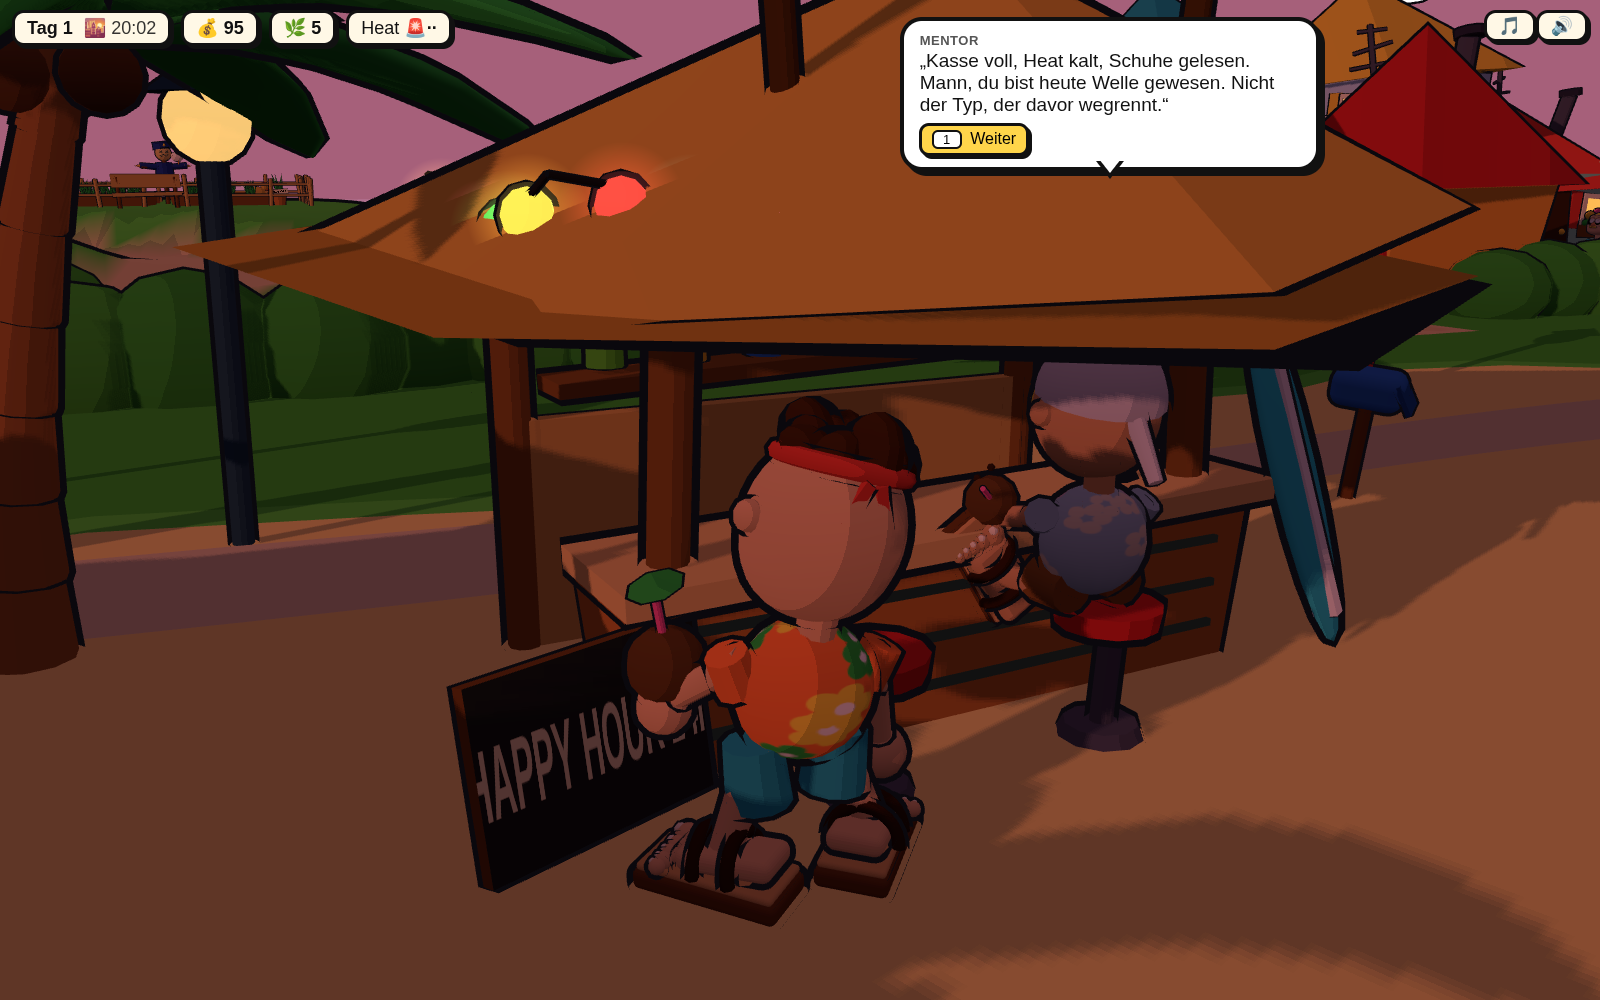
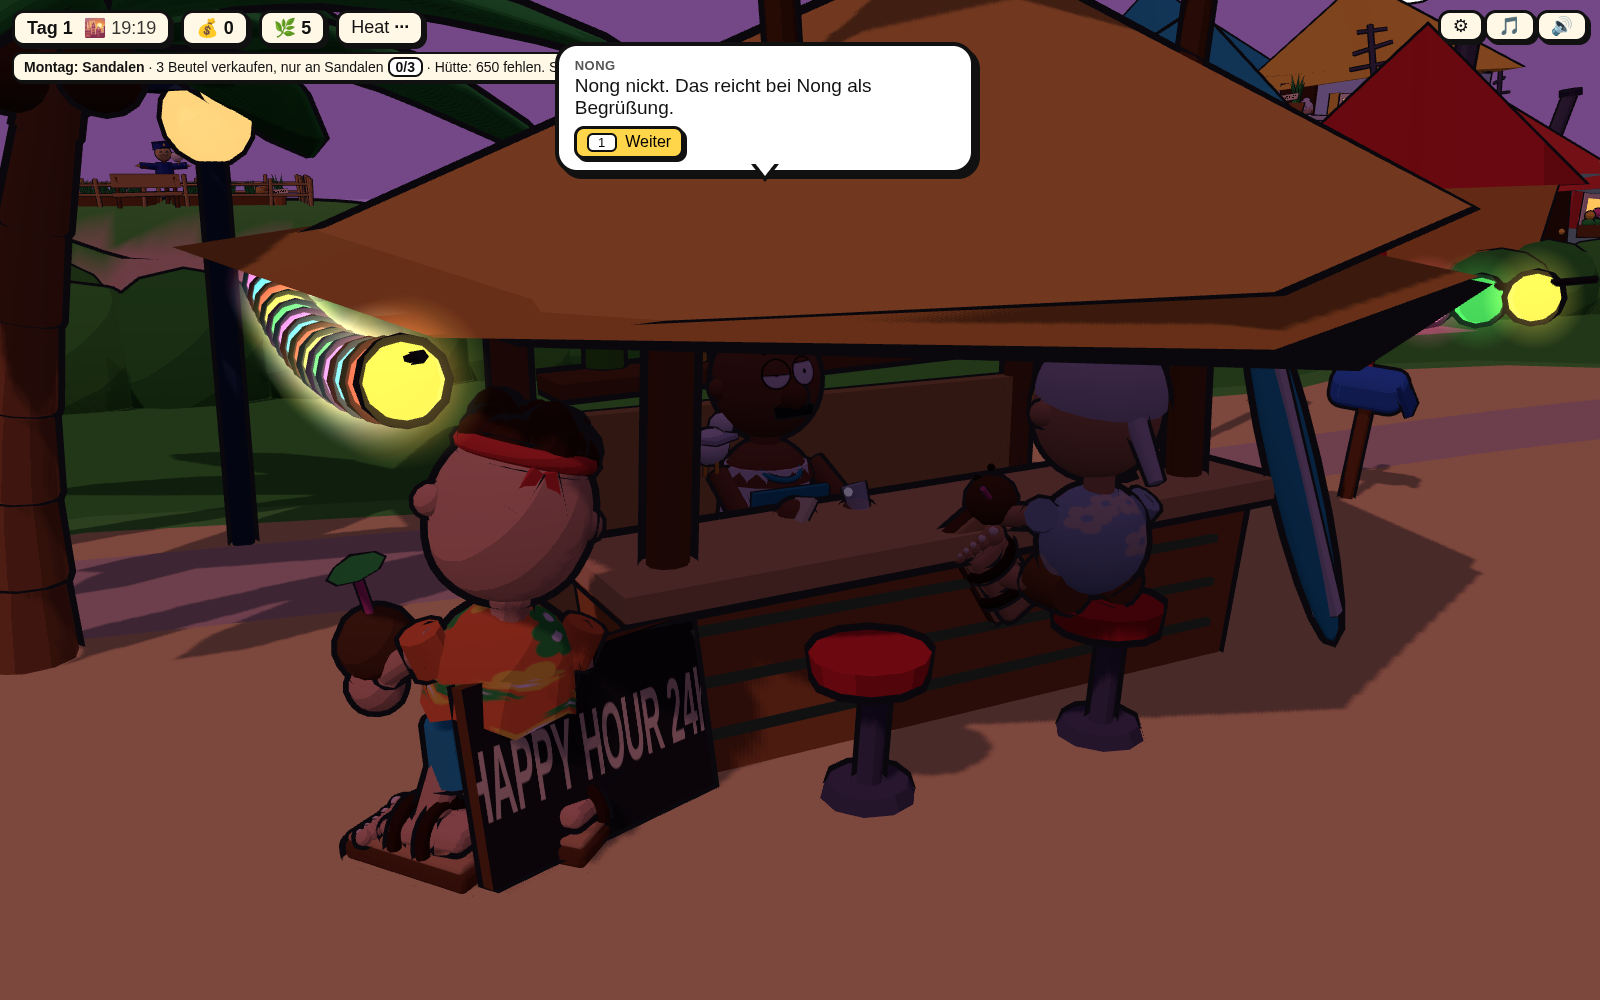
Kamera neigbar, Lichterkette unter der Traufe

diff --git a/spiel/js/main.js b/spiel/js/main.js
@@ -16,6 +16,7 @@ import { prepareGags, playGag, stopGag } from './gags.js';
 import {
   inputToDir, dirToTarget, stepPlayer, followCamera, waddlePose, CAM_OFFSET, DEFAULT_CAM_YAW, isOccluder, joystickInput, rotateDir,
   ANCHORS, assignAnchors, zoneMix, patrolStart, seesTarget, chaseStep, inHideout, CHASE_SPEED, PATROL_SPEED, WORLD, BUILDING_POS, STREIFE_P2_ROUTE,
+  CAM_PITCH, clampPitch,
 } from './logic.js';
 import {
   initialState, normalizeKatalog, pickKunden, startDialog, advanceDialog, chooseOption, isArrested, newDay, moodFor,
@@ -38,6 +39,8 @@ const KEY_TALK = 'KeyE';
 const KEY_LOOK = 'KeyF';
 const KEY_CAM_LEFT = 'KeyQ';
 const KEY_CAM_RIGHT = 'KeyR';
+const KEY_CAM_UP = 'KeyT';   // Kamera steiler (Draufsicht)
+const KEY_CAM_DOWN = 'KeyG'; // Kamera flacher (mehr Welt)
 
 // Parameter per Regex, weil der Screenshot-Aufruf „?snap=1“ hinter andere Parameter hängt (…?at=bar?snap=1)
 const q = (name) => (location.search.match(new RegExp('[?&]' + name + '=([-a-z0-9._]+)')) || [])[1];
@@ -47,6 +50,7 @@ const AT = q('at');
 const CY = q('cy'); // Kamera-Gierung in Grad relativ zum Standard, z. B. ?at=hotel&cy=-90 (Kamera im Osten, Blick nach Westen)
 const SCENE = q('scene'); // dialog | inspect | lineup | ausverkauft | bilanz | gag | mentor | mango | streife | abend (nur Snap)
 const T01 = q('t'); // Tageszeit 0..1 für Snaps
+const PITCH = q('pitch'); // Kamera-Neigung in Grad für Snaps
 const SCENE_ID = q('id'); // Kunde für scene=gag
 const TOUCH = q('touch') === '1' || isTouchDevice(); // Touch-Steuerung einblenden
 
@@ -168,6 +172,11 @@ let optionen = normalizeOptionen((() => { try { return JSON.parse(localStorage.g
 const LANG = q('lang'); // ?lang=en für Snaps
 if (LANG) optionen = { ...optionen, sprache: LANG === 'en' ? 'en' : 'de' };
 function saveOptionen() { try { localStorage.setItem(OPT_KEY, JSON.stringify(optionen)); } catch (e) { /* privat/gesperrt */ } }
+// Kamera-Neigung: aus den Optionen (Grad), ?pitch= für Snaps; Änderungen werden gesammelt gespeichert
+let camPitch = clampPitch((PITCH ? parseFloat(PITCH) : optionen.neigung) * Math.PI / 180);
+let pitchSaveAt = 0;
+function setPitch(p) { camPitch = clampPitch(p); pitchSaveAt = performance.now() + 800; }
+function flushPitch(now) { if (pitchSaveAt && now > pitchSaveAt) { pitchSaveAt = 0; const g = Math.round(camPitch * 180 / Math.PI); if (g !== optionen.neigung) { optionen = { ...optionen, neigung: g }; saveOptionen(); } } }
 // Spielstand: automatisch beim Tageswechsel (Morgenstand), Startkarte „Weiter“/„Neues Spiel“ wenn einer da ist
 const SAVE_KEY = 'bangi.spielstand';
 function saveGame() { try { localStorage.setItem(SAVE_KEY, JSON.stringify({ ...toSave(game), zeit: new Date().toISOString() })); } catch (e) { /* privat/gesperrt */ } }
@@ -382,10 +391,10 @@ async function loadKunden() {
 }
 
 // ---------- Eingabe ----------
-const keys = { up: false, down: false, left: false, right: false, run: false, rotL: false, rotR: false };
+const keys = { up: false, down: false, left: false, right: false, run: false, rotL: false, rotR: false, pitchUp: false, pitchDown: false };
 const KEYMAP = {
   KeyW: 'up', ArrowUp: 'up', KeyS: 'down', ArrowDown: 'down', KeyA: 'left', ArrowLeft: 'left',
-  KeyD: 'right', ArrowRight: 'right', ShiftLeft: 'run', ShiftRight: 'run', [KEY_CAM_LEFT]: 'rotL', [KEY_CAM_RIGHT]: 'rotR',
+  KeyD: 'right', ArrowRight: 'right', ShiftLeft: 'run', ShiftRight: 'run', [KEY_CAM_LEFT]: 'rotL', [KEY_CAM_RIGHT]: 'rotR', [KEY_CAM_UP]: 'pitchUp', [KEY_CAM_DOWN]: 'pitchDown',
 };
 let nearK = null; // nächster Kunde in Reichweite (jeden Frame neu)
 // Mentor auf der Kuppe: eigener Gesprächspartner (kein Kunde), Szene einmal pro Tag
@@ -650,13 +659,39 @@ window.addEventListener('blur', () => { for (const k in keys) keys[k] = false; }
 // Klick auf den Boden = hinlaufen
 const ray = new THREE.Raycaster(); ray.camera = camera; // Sprites (Lichterketten-Halos) brauchen die Kamera beim Raycast
 const groundPlane = new THREE.Plane(new THREE.Vector3(0, 1, 0), 0);
+// Maus: Ziehen dreht (waagerecht) und neigt (senkrecht) die Kamera, ein Klick ohne Ziehen läuft hin; Rad neigt; zwei Finger neigen
+const drag = { id: null, x: 0, y: 0, moved: false, fingers: new Map(), pinchY: null };
 renderer.domElement.addEventListener('pointerdown', (e) => {
-  if (e.button !== 0 || mode !== 'free') return;
+  if (e.pointerType === 'touch') { drag.fingers.set(e.pointerId, e.clientY); drag.pinchY = drag.fingers.size === 2 ? [...drag.fingers.values()].reduce((a, b) => a + b, 0) / 2 : null; }
+  if (e.button !== 0 || mode !== 'free' || e.pointerType === 'touch') return;
+  drag.id = e.pointerId; drag.x = e.clientX; drag.y = e.clientY; drag.moved = false;
+});
+renderer.domElement.addEventListener('pointermove', (e) => {
+  if (e.pointerType === 'touch') {
+    if (drag.fingers.has(e.pointerId)) drag.fingers.set(e.pointerId, e.clientY);
+    if (drag.fingers.size === 2 && drag.pinchY !== null) { const y = [...drag.fingers.values()].reduce((a, b) => a + b, 0) / 2; setPitch(camPitch - (y - drag.pinchY) * 0.004); drag.pinchY = y; }
+    return;
+  }
+  if (drag.id !== e.pointerId) return;
+  const dx = e.clientX - drag.x, dy = e.clientY - drag.y;
+  if (!drag.moved && Math.hypot(dx, dy) < 6) return;
+  drag.moved = true;
+  camYaw -= dx * 0.005; setPitch(camPitch - dy * 0.005); // hochziehen = steiler
+  drag.x = e.clientX; drag.y = e.clientY;
+});
+const dragEnd = (e) => {
+  if (e.pointerType === 'touch') { drag.fingers.delete(e.pointerId); drag.pinchY = null; return; }
+  if (drag.id !== e.pointerId) return;
+  drag.id = null;
+  if (drag.moved || mode !== 'free') return;
   const ndc = new THREE.Vector2((e.clientX / window.innerWidth) * 2 - 1, -(e.clientY / window.innerHeight) * 2 + 1);
   ray.setFromCamera(ndc, camera);
   const hit = new THREE.Vector3();
   if (ray.ray.intersectPlane(groundPlane, hit)) clickTarget = { x: hit.x, z: hit.z };
-});
+};
+renderer.domElement.addEventListener('pointerup', dragEnd);
+renderer.domElement.addEventListener('pointercancel', dragEnd);
+renderer.domElement.addEventListener('wheel', (e) => { if (mode === 'free' || mode === 'inspect') { setPitch(camPitch + e.deltaY * 0.0015); e.preventDefault(); } }, { passive: false });
 // ---------- Tutorial Tag 1: Schritte aus texte.json → tutorial{}, Zielmarker (marker.js), nur im ersten Spiel, überspringbar ----------
 const TUT_KEY = 'bangi.tutorial';
 const TUT_PARAM = q('tutorial'); // ?tutorial=1 erzwingt, =0 unterdrückt (Snaps/Tests)
@@ -1378,7 +1413,7 @@ function setupScene() {
     // Einzelfigur auf offenem Sand, Blick zur Kamera: ?scene=figur&id=surfer_1[&cy=50]
     const k = (SCENE_ID && kundeById(SCENE_ID)) || kunden[0];
     state = { ...state, x: 7, z: 4, yaw: -Math.PI / 2, speed: 0 };
-    let c = cam; for (let i = 0; i < 300; i++) c = followCamera(c, state, 1 / 60, camYaw);
+    let c = cam; for (let i = 0; i < 300; i++) c = followCamera(c, state, 1 / 60, camYaw, 4, camPitch);
     k.npc = { ...k.npc, x: 4, z: 6, yaw: Math.atan2(c.x - 4, c.z - 6), moving: false, pause: 99 };
     k.look = 0; applyKunde(k);
     mode = 'free';
@@ -1423,7 +1458,7 @@ if (SNAP) {
     const overview = AT === 'overview';
     setupScene();
     applyPose(state);
-    for (let i = 0; i < 300; i++) cam = followCamera(cam, state, 1 / 60, camYaw);
+    for (let i = 0; i < 300; i++) cam = followCamera(cam, state, 1 / 60, camYaw, 4, camPitch);
     if (overview) { cam = { x: 12, y: 135, z: -160, tx: 12, ty: 0, tz: -22 }; scene.fog = null; camera.near = 20; camera.updateProjectionMatrix(); } // Übersicht ohne Nebel; near 20 gegen Tiefen-Streifen (Gras über Sand) in der Ferne
     if (mode === 'inspect') {
       cam = inspectCamera(talking.npc, state, inspectOpts(talking));
@@ -1477,6 +1512,8 @@ if (SNAP) {
     if (free) {
       if (keys.rotL) camYaw += 1.5 * dt;
       if (keys.rotR) camYaw -= 1.5 * dt;
+      if (keys.pitchUp) setPitch(camPitch + 1.0 * dt);
+      if (keys.pitchDown) setPitch(camPitch - 1.0 * dt);
       let dir = inputToDir(keys, camYaw);
       let run = keys.run;
       if (joy && joy.active) { dir = rotateDir(joy, camYaw); run = joy.run; }
@@ -1507,6 +1544,7 @@ if (SNAP) {
     }
     if (nearK) tutorialFire('kunde_in_reichweite');
     if (hinweisBis && now > hinweisBis) { hinweisBis = 0; if (mode === 'free') ui.showPrompt(null); }
+    flushPitch(now);
     try { ereignisSteuer.update(now / 1000); } catch (e) { /* ohne Requisiten */ }
     for (const k of kunden) updateKundenExtras(k.group, now / 1000);
     updateTutorial(now);
@@ -1539,7 +1577,7 @@ if (SNAP) {
       const t = 1 - Math.exp(-5 * dt);
       for (const key of ['x', 'y', 'z', 'tx', 'ty', 'tz']) cam[key] += (want[key] - cam[key]) * t;
     } else {
-      cam = followCamera(cam, state, dt, camYaw);
+      cam = followCamera(cam, state, dt, camYaw, 4, camPitch);
     }
     applyCamera();
     camera.updateMatrixWorld();

diff --git a/spiel/test/logic.test.js b/spiel/test/logic.test.js
@@ -3,7 +3,7 @@ import { test } from 'node:test';
 import assert from 'node:assert/strict';
 import {
   inputToDir, dirToTarget, stepPlayer, resolveCollisions, pushOutCircle, pushOutRect,
-  followCamera, waddlePose, npcHeadYaw, shoreZ, angleLerp,
+  followCamera, waddlePose, npcHeadYaw, shoreZ, angleLerp, CAM_PITCH, CAM_DIST, clampPitch, camOffsetFor,
   WALK_SPEED, RUN_SPEED, PLAYER_RADIUS, WADE_DEPTH, WORLD, CAM_OFFSET, DEFAULT_CAM_YAW,
 } from '../js/logic.js';
 
@@ -134,16 +134,17 @@ test('followCamera: konvergiert auf Offset hinter/über dem Spieler, schaut aufs
   let cam = { x: 0, y: 0, z: 0, tx: 0, ty: 0, tz: 0 };
   const p = { x: 10, z: 5 };
   for (let i = 0; i < 600; i++) cam = followCamera(cam, p, 1 / 60);
-  close(cam.x, 10, 1e-3); close(cam.z, 5 + CAM_OFFSET.back, 1e-3); close(cam.y, CAM_OFFSET.up, 1e-3);
+  const off = camOffsetFor(CAM_PITCH.standard); // Standard-Neigung
+  close(cam.x, 10, 1e-3); close(cam.z, 5 + off.back, 1e-3); close(cam.y, off.up, 1e-3);
   close(cam.tx, 10, 1e-3); close(cam.tz, 5 - CAM_OFFSET.lookAhead, 1e-3);
   // mit Kamera-Gierung 90°: Kamera steht seitlich
   let c2 = { ...cam };
   for (let i = 0; i < 600; i++) c2 = followCamera(c2, p, 1 / 60, Math.PI / 2);
-  close(c2.x, 10 + CAM_OFFSET.back, 1e-3); close(c2.z, 5, 1e-3);
+  close(c2.x, 10 + off.back, 1e-3); close(c2.z, 5, 1e-3);
   // Standard-Gierung: Kamera im Norden (-z), schaut nach Süden aufs Meer; „hoch“ läuft Richtung Meer
   let c3 = { ...cam };
   for (let i = 0; i < 600; i++) c3 = followCamera(c3, p, 1 / 60, DEFAULT_CAM_YAW);
-  close(c3.z, 5 - CAM_OFFSET.back, 1e-3); close(c3.tz, 5 + CAM_OFFSET.lookAhead, 1e-3);
+  close(c3.z, 5 - off.back, 1e-3); close(c3.tz, 5 + CAM_OFFSET.lookAhead, 1e-3);
   const up = inputToDir({ up: true }, DEFAULT_CAM_YAW);
   close(up.x, 0, 1e-9); close(up.z, 1, 1e-9);
 });
@@ -589,4 +590,24 @@ test('Spawn-Zonen: K7 landet im Reisfeld, K8 im Kokoshain (hain_*), K1 im Hafen;
   const m = aA([{ id: 'nok', spawn: 'K7' }, { id: 'dao', spawn: 'K8' }, { id: 'f', spawn: 'K1' }, { id: 'x' }], ALLE, { day: 3 });
   assert.equal(m.nok.zone, 'reisfeld'); assert.ok(m.dao.id.startsWith('hain_')); assert.equal(m.f.zone, 'pier'); assert.ok(!m.f.id.startsWith('hain_'), 'Fähre nicht in den Hain');
   assert.ok(m.x);
+});
+
+
+test('Kamera-Neigung: Grenzen 15°…80°, Standard 38° (flacher als vorher), Abstand bleibt, followCamera folgt der Neigung', () => {
+  const g = (d) => d * Math.PI / 180;
+  assert.ok(Math.abs(clampPitch(g(5)) - CAM_PITCH.min) < 1e-9 && Math.abs(clampPitch(g(89)) - CAM_PITCH.max) < 1e-9);
+  assert.equal(clampPitch(NaN), CAM_PITCH.standard); assert.equal(clampPitch(undefined), CAM_PITCH.standard);
+  assert.ok(CAM_PITCH.standard < Math.atan2(CAM_OFFSET.up - CAM_OFFSET.targetY, CAM_OFFSET.back), 'Standard flacher als der alte Versatz');
+  for (const p of [CAM_PITCH.min, CAM_PITCH.standard, CAM_PITCH.max]) {
+    const o = camOffsetFor(p);
+    assert.ok(Math.abs(Math.hypot(o.back, o.up - CAM_OFFSET.targetY) - CAM_DIST) < 1e-9, 'Abstand konstant');
+    assert.ok(o.up > 1.5, 'nie unter den Boden');
+  }
+  assert.ok(camOffsetFor(CAM_PITCH.min).back > camOffsetFor(CAM_PITCH.max).back && camOffsetFor(CAM_PITCH.max).up > camOffsetFor(CAM_PITCH.min).up);
+  assert.ok(camOffsetFor(CAM_PITCH.max).back > 2.5, 'nicht senkrecht von oben');
+  const p = { x: 10, z: 20 };
+  let flach = { x: 0, y: 0, z: 0, tx: 0, ty: 0, tz: 0 }, steil = { ...flach };
+  for (let i = 0; i < 600; i++) { flach = followCamera(flach, p, 1 / 60, 0, 4, CAM_PITCH.min); steil = followCamera(steil, p, 1 / 60, 0, 4, CAM_PITCH.max); }
+  assert.ok(flach.y < steil.y && Math.abs(flach.z - p.z) > Math.abs(steil.z - p.z), 'flach: tiefer und weiter hinten');
+  assert.ok(Math.abs(flach.tx - (p.x)) < 1e-6 && Math.abs(flach.ty - CAM_OFFSET.targetY) < 1e-6, 'Blickpunkt unverändert');
 });

diff --git a/spiel/js/logic.js b/spiel/js/logic.js
@@ -146,11 +146,21 @@ export function stepPlayer(state, input, dt, colliders = [], world = WORLD, { sa
  * sanft nachgezogen (exponentiell). cam: { x, y, z, tx, ty, tz }
  */
 export const CAM_OFFSET = { back: 13, up: 13, lookAhead: 3.0, targetY: 1.0 };
+// Kamera-Neigung (Pitch, Radiant): flach = mehr Welt, steil = Draufsicht. Grenzen: nicht unter den Boden, nicht senkrecht
+export const CAM_DIST = Math.hypot(CAM_OFFSET.back, CAM_OFFSET.up - CAM_OFFSET.targetY); // Abstand Kamera ↔ Blickpunkt bleibt
+export const CAM_PITCH = { min: 15 * Math.PI / 180, max: 80 * Math.PI / 180, standard: 38 * Math.PI / 180 }; // Standard flacher als die alten 42,7°
+export const clampPitch = (p) => Math.max(CAM_PITCH.min, Math.min(CAM_PITCH.max, Number.isFinite(p) ? p : CAM_PITCH.standard));
+/** Kamera-Versatz für eine Neigung: zurück (waagerecht) und hoch (über dem Blickpunkt), Abstand konstant */
+export function camOffsetFor(pitch = CAM_PITCH.standard, dist = CAM_DIST) {
+  const p = clampPitch(pitch);
+  return { back: dist * Math.cos(p), up: CAM_OFFSET.targetY + dist * Math.sin(p) };
+}
 export const DEFAULT_CAM_YAW = Math.PI; // Kamera steht im Norden und schaut übers Land aufs Meer (Q/E dreht)
-export function followCamera(cam, player, dt, camYaw = 0, k = 4) {
+export function followCamera(cam, player, dt, camYaw = 0, k = 4, pitch = CAM_PITCH.standard) {
   const c = Math.cos(camYaw), s = Math.sin(camYaw);
-  const ox = s * CAM_OFFSET.back, oz = c * CAM_OFFSET.back;
-  const want = { x: player.x + ox, y: CAM_OFFSET.up, z: player.z + oz };
+  const off = camOffsetFor(pitch);
+  const ox = s * off.back, oz = c * off.back;
+  const want = { x: player.x + ox, y: off.up, z: player.z + oz };
   const wantT = { x: player.x - s * CAM_OFFSET.lookAhead, y: CAM_OFFSET.targetY, z: player.z - c * CAM_OFFSET.lookAhead };
   const t = 1 - Math.exp(-k * dt);
   const lerp = (a, b) => a + (b - a) * t;

diff --git a/spiel/js/game.js b/spiel/js/game.js
@@ -641,7 +641,8 @@ export function fromSave(json) {
 export const hatFortschritt = (json) => { const s = fromSave(json); return !!s && (s.tag > 1 || s.geld > 0 || s.mangos > 0); };
 
 // ---------- Optionen (⚙): Textsprache, Zivi-Beschlagnahme, Musik, Ton — Ablage im Browser, robust gegen Müll ----------
-export const DEFAULT_OPTIONEN = { sprache: 'de', beschlagnahme: ZIVI_BESCHLAGNAHMT, musik: true, ton: true };
+export const NEIGUNG = { min: 15, max: 80, standard: 38 }; // Kamera-Neigung in Grad (Grenzen wie logic.CAM_PITCH)
+export const DEFAULT_OPTIONEN = { sprache: 'de', beschlagnahme: ZIVI_BESCHLAGNAHMT, musik: true, ton: true, neigung: NEIGUNG.standard };
 export function normalizeOptionen(json) {
   const o = json && typeof json === 'object' ? json : {};
   const bool = (v, d) => (typeof v === 'boolean' ? v : d);
@@ -650,6 +651,7 @@ export function normalizeOptionen(json) {
     beschlagnahme: bool(o.beschlagnahme, DEFAULT_OPTIONEN.beschlagnahme),
     musik: bool(o.musik, DEFAULT_OPTIONEN.musik),
     ton: bool(o.ton, DEFAULT_OPTIONEN.ton),
+    neigung: Number.isFinite(o.neigung) ? Math.max(NEIGUNG.min, Math.min(NEIGUNG.max, Math.round(o.neigung))) : DEFAULT_OPTIONEN.neigung,
   };
 }
 // Reveal-Gags (gags.js spielt sie): id, wann (kauf|ablehnung|immer), gag, mood, extra, dauer_s — kaputte Einträge fliegen raus

diff --git a/spiel/js/world.js b/spiel/js/world.js
@@ -179,7 +179,9 @@ export function buildWorld() {
   // Lichterkette rundherum an der Dachkante (abends glühen die Birnchen, siehe licht.js); dreht mit der Bar mit
   { const c = Math.cos(bar.rotation.y), sn = Math.sin(bar.rotation.y);
     const V = (lx, ly, lz) => new THREE.Vector3(barPos.x + (lx * c + lz * sn) * bs, ly * bs, barPos.z + (-lx * sn + lz * c) * bs);
-    g.add(lichterkette([V(-2.5, 3.2, -1.3), V(-2.5, 3.2, 1.3), V(2.5, 3.2, 1.3), V(2.5, 3.2, -1.3), V(-2.5, 3.2, -1.3)])); }
+    // unter der Traufe (Dachsaum endet bei y 2.75, Radius ≈ 4.1 × 3.4): knapp darunter, nicht im Dach. Drei Seiten (Rückwand + Flanken),
+    // die Tresenseite bleibt frei: von der Meerseite (Bar-Kamera) hingen die Birnen sonst vor den Gesichtern
+    g.add(lichterkette([V(-3.4, 2.6, 2.7), V(-3.4, 2.6, -2.7), V(3.4, 2.6, -2.7), V(3.4, 2.6, 2.7)])); }
   for (const f of buildingFootprints()) if (f.name === 'bar') rect(f.x, f.z, f.w, f.d); // Theke + Rückwand
   bCircle(barPos, bs, -2.1, -1.1, 0.25); bCircle(barPos, bs, 2.1, -1.1, 0.25); bCircle(barPos, bs, -1.9, 1.0, 0.25); bCircle(barPos, bs, 2.1, 1.0, 0.25);
   bCircle(barPos, bs, -1.1, 1.9, 0.4); bCircle(barPos, bs, 0.5, 1.9, 0.4); // Hocker

diff --git a/spiel/test/game.test.js b/spiel/test/game.test.js
@@ -686,7 +686,8 @@ test('normalizeOptionen: Defaults (DE, Beschlagnahme an, Musik/Ton an), nur gül
   assert.deepEqual(normalizeOptionen(null), DEFAULT_OPTIONEN);
   assert.equal(DEFAULT_OPTIONEN.beschlagnahme, ZB);
   const o = normalizeOptionen({ sprache: 'en', beschlagnahme: false, musik: 'nein', ton: 0, extra: 1 });
-  assert.deepEqual(o, { sprache: 'en', beschlagnahme: false, musik: true, ton: true });
+  assert.deepEqual(o, { sprache: 'en', beschlagnahme: false, musik: true, ton: true, neigung: 38 });
+  assert.equal(normalizeOptionen({ neigung: 200 }).neigung, 80); assert.equal(normalizeOptionen({ neigung: 2 }).neigung, 15); assert.equal(normalizeOptionen({ neigung: 50.4 }).neigung, 50);
   assert.equal(normalizeOptionen({ sprache: 'fr' }).sprache, 'de');
 });
 

diff --git a/spiel/index.html b/spiel/index.html
@@ -101,7 +101,7 @@
 </script>
 </head>
 <body>
-<div id="hint">WASD / Pfeile = gehen · Shift = „rennen“ · Q/R = Kamera drehen · Klick = hinlaufen · E = ansprechen · F = genau hinschauen</div>
+<div id="hint">WASD / Pfeile = gehen · Shift = „rennen“ · Q/R = Kamera drehen · T/G, Rad oder Ziehen = Kamera neigen · Klick = hinlaufen · E = ansprechen · F = genau hinschauen</div>
 <div id="hud" class="comic"></div>
 <div id="ziel" class="comic"></div>
 <button id="mute" class="hud-item comic" aria-label="Ton an/aus" style="position:fixed;right:12px;top:10px;display:none">🔊</button>

diff --git a/spiel/README.md b/spiel/README.md
@@ -209,6 +209,14 @@ Standbild (für die PNGs in `shots/`).
   Meshes zusammengeführt — mit `?stats=1` lässt sich der Draw-Call-Stand ablesen, das ist der erste Hebel, wenn
   es auf einem Laptop ruckelt. Pixel-Ratio ist auf 1.5 gedeckelt.
 
+## Kamera-Neigung
+Die Kamera lässt sich hoch- und runterneigen: **T/G**, **Mausrad**, **Maus-Ziehen** (senkrecht neigt, waagerecht dreht
+wie Q/R; ein Klick ohne Ziehen läuft weiter hin) und mobil **Zwei-Finger-Wisch**. Grenzen 15°…80° (nicht unter den
+Boden, nicht senkrecht), Standard 38° – etwas flacher als früher, man sieht mehr Welt. Der Abstand zum Blickpunkt bleibt
+gleich (`CAM_PITCH`, `clampPitch`, `camOffsetFor`, `followCamera` in `js/logic.js`, getestet). Die Neigung wird als
+Option `neigung` (Grad) gespeichert; `?pitch=15` bzw. `?pitch=80` setzt sie für Snaps. Hinschau- und Bar-Kamera sind
+davon unabhängig, der Sicht-Fade arbeitet mit der echten Kameraposition.
+
 ## Optionen (⚙)
 Der Zahnrad-Knopf im HUD (oder Esc) öffnet das Optionen-Menü und pausiert das Spiel: **Textsprache** DE/EN,
 **Zivi nimmt die Ware ab** (an/aus, Default an), **Musik**, **Ton**. Die Wahl liegt im Browser (`localStorage`, im
